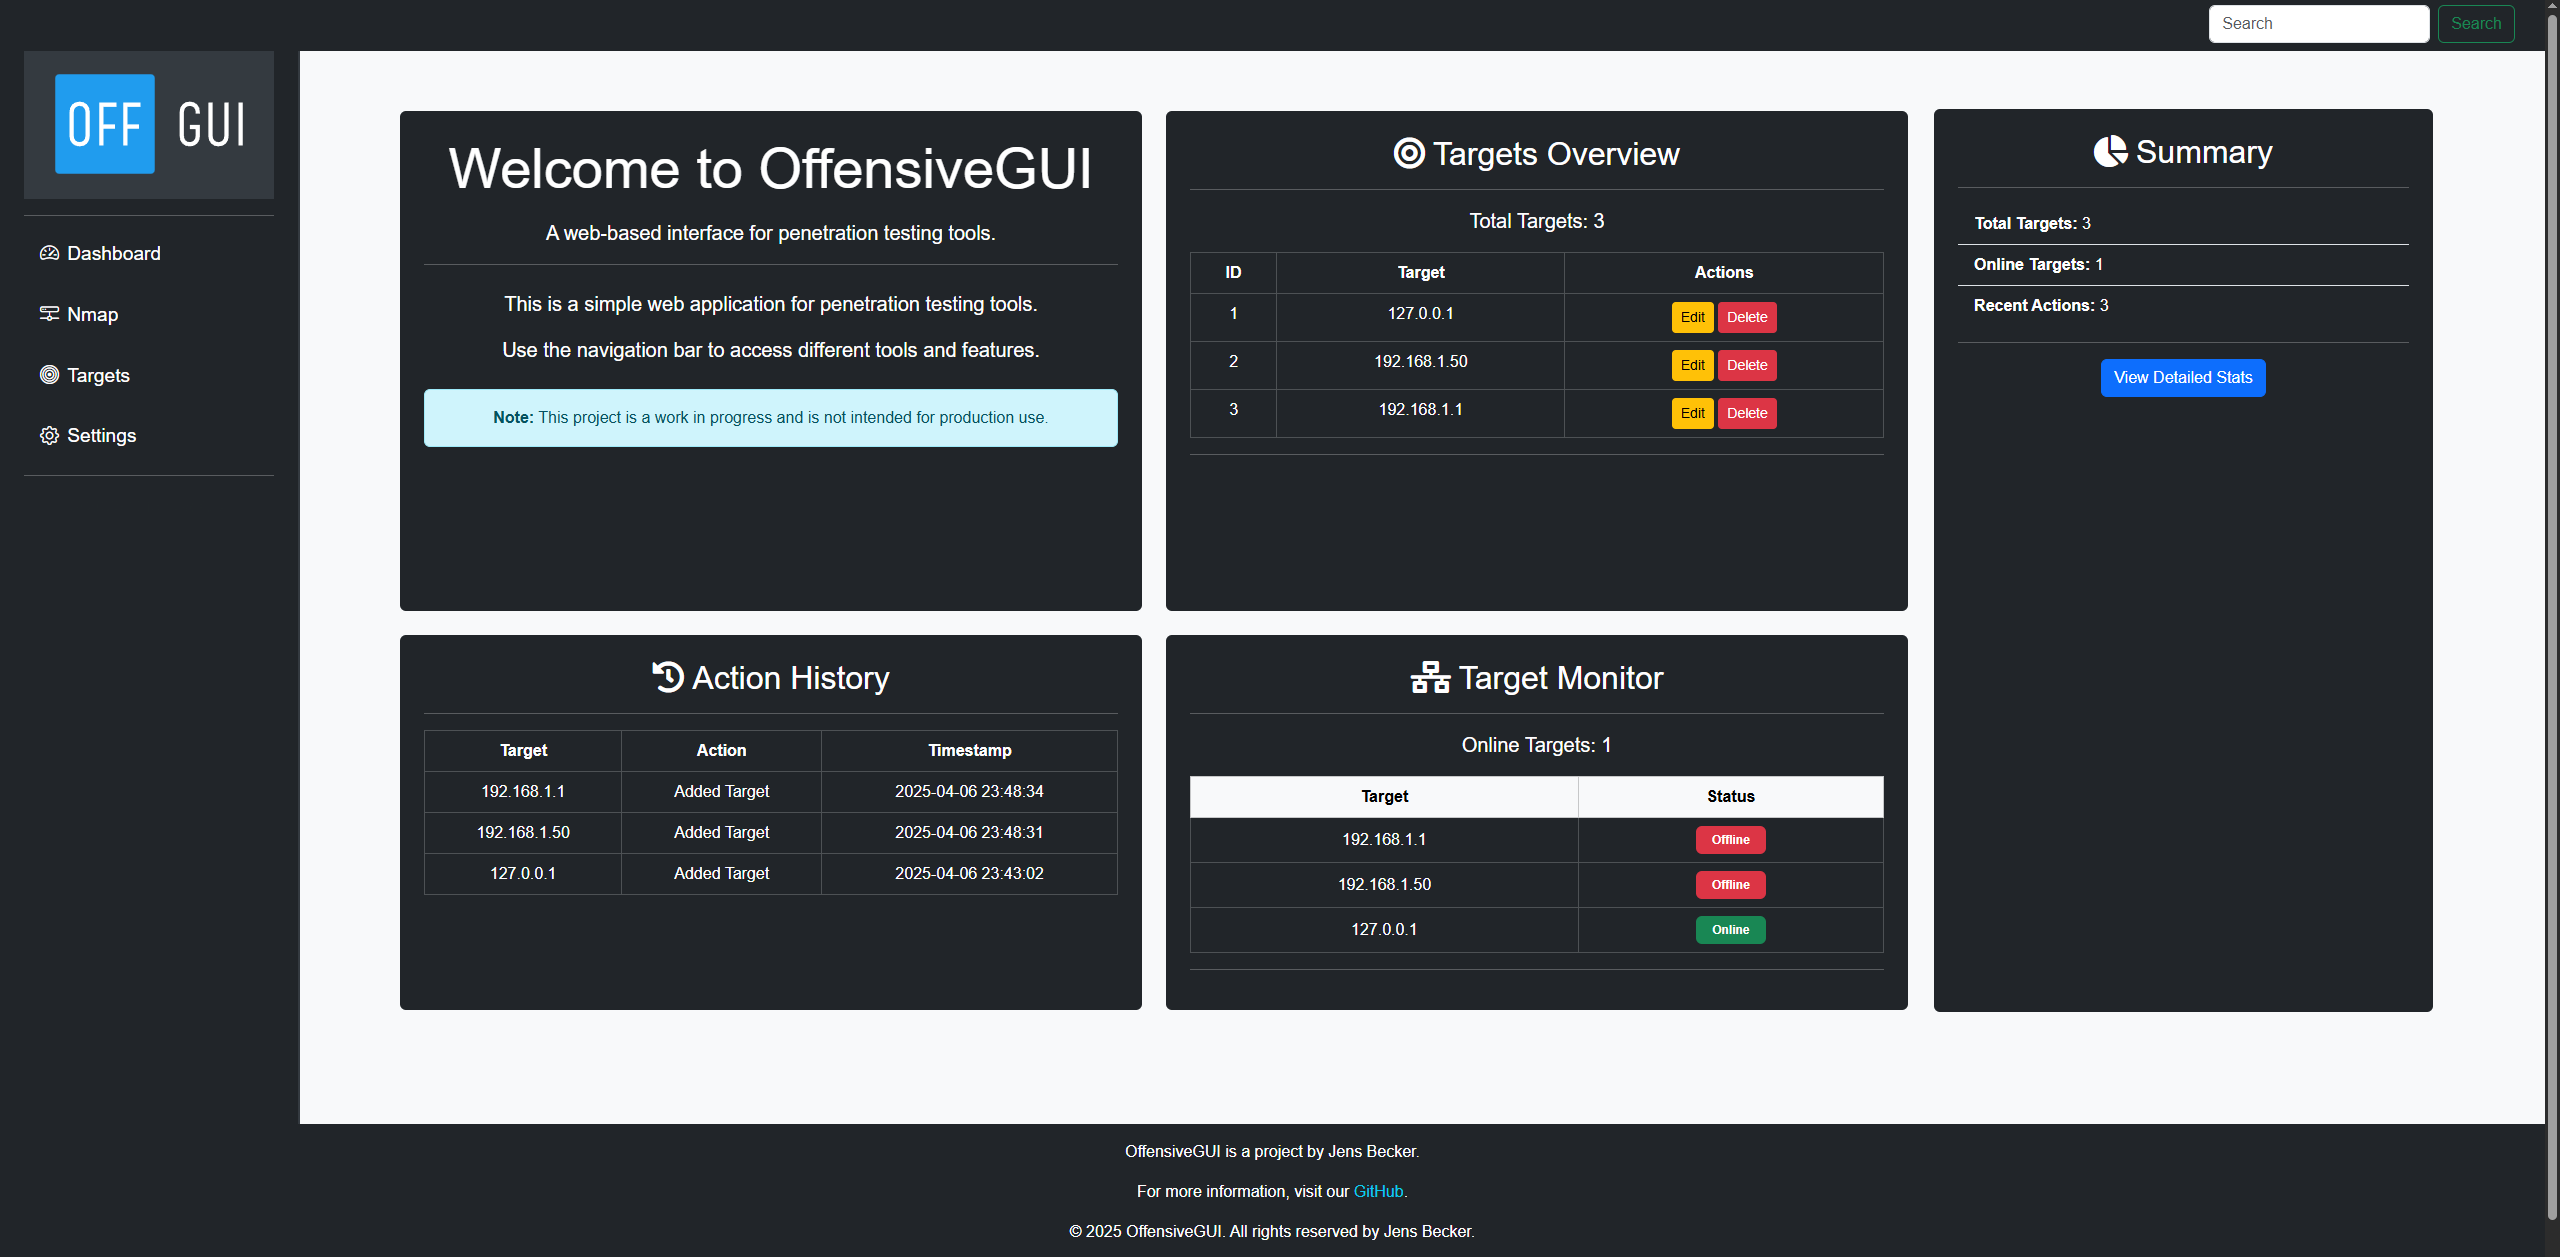
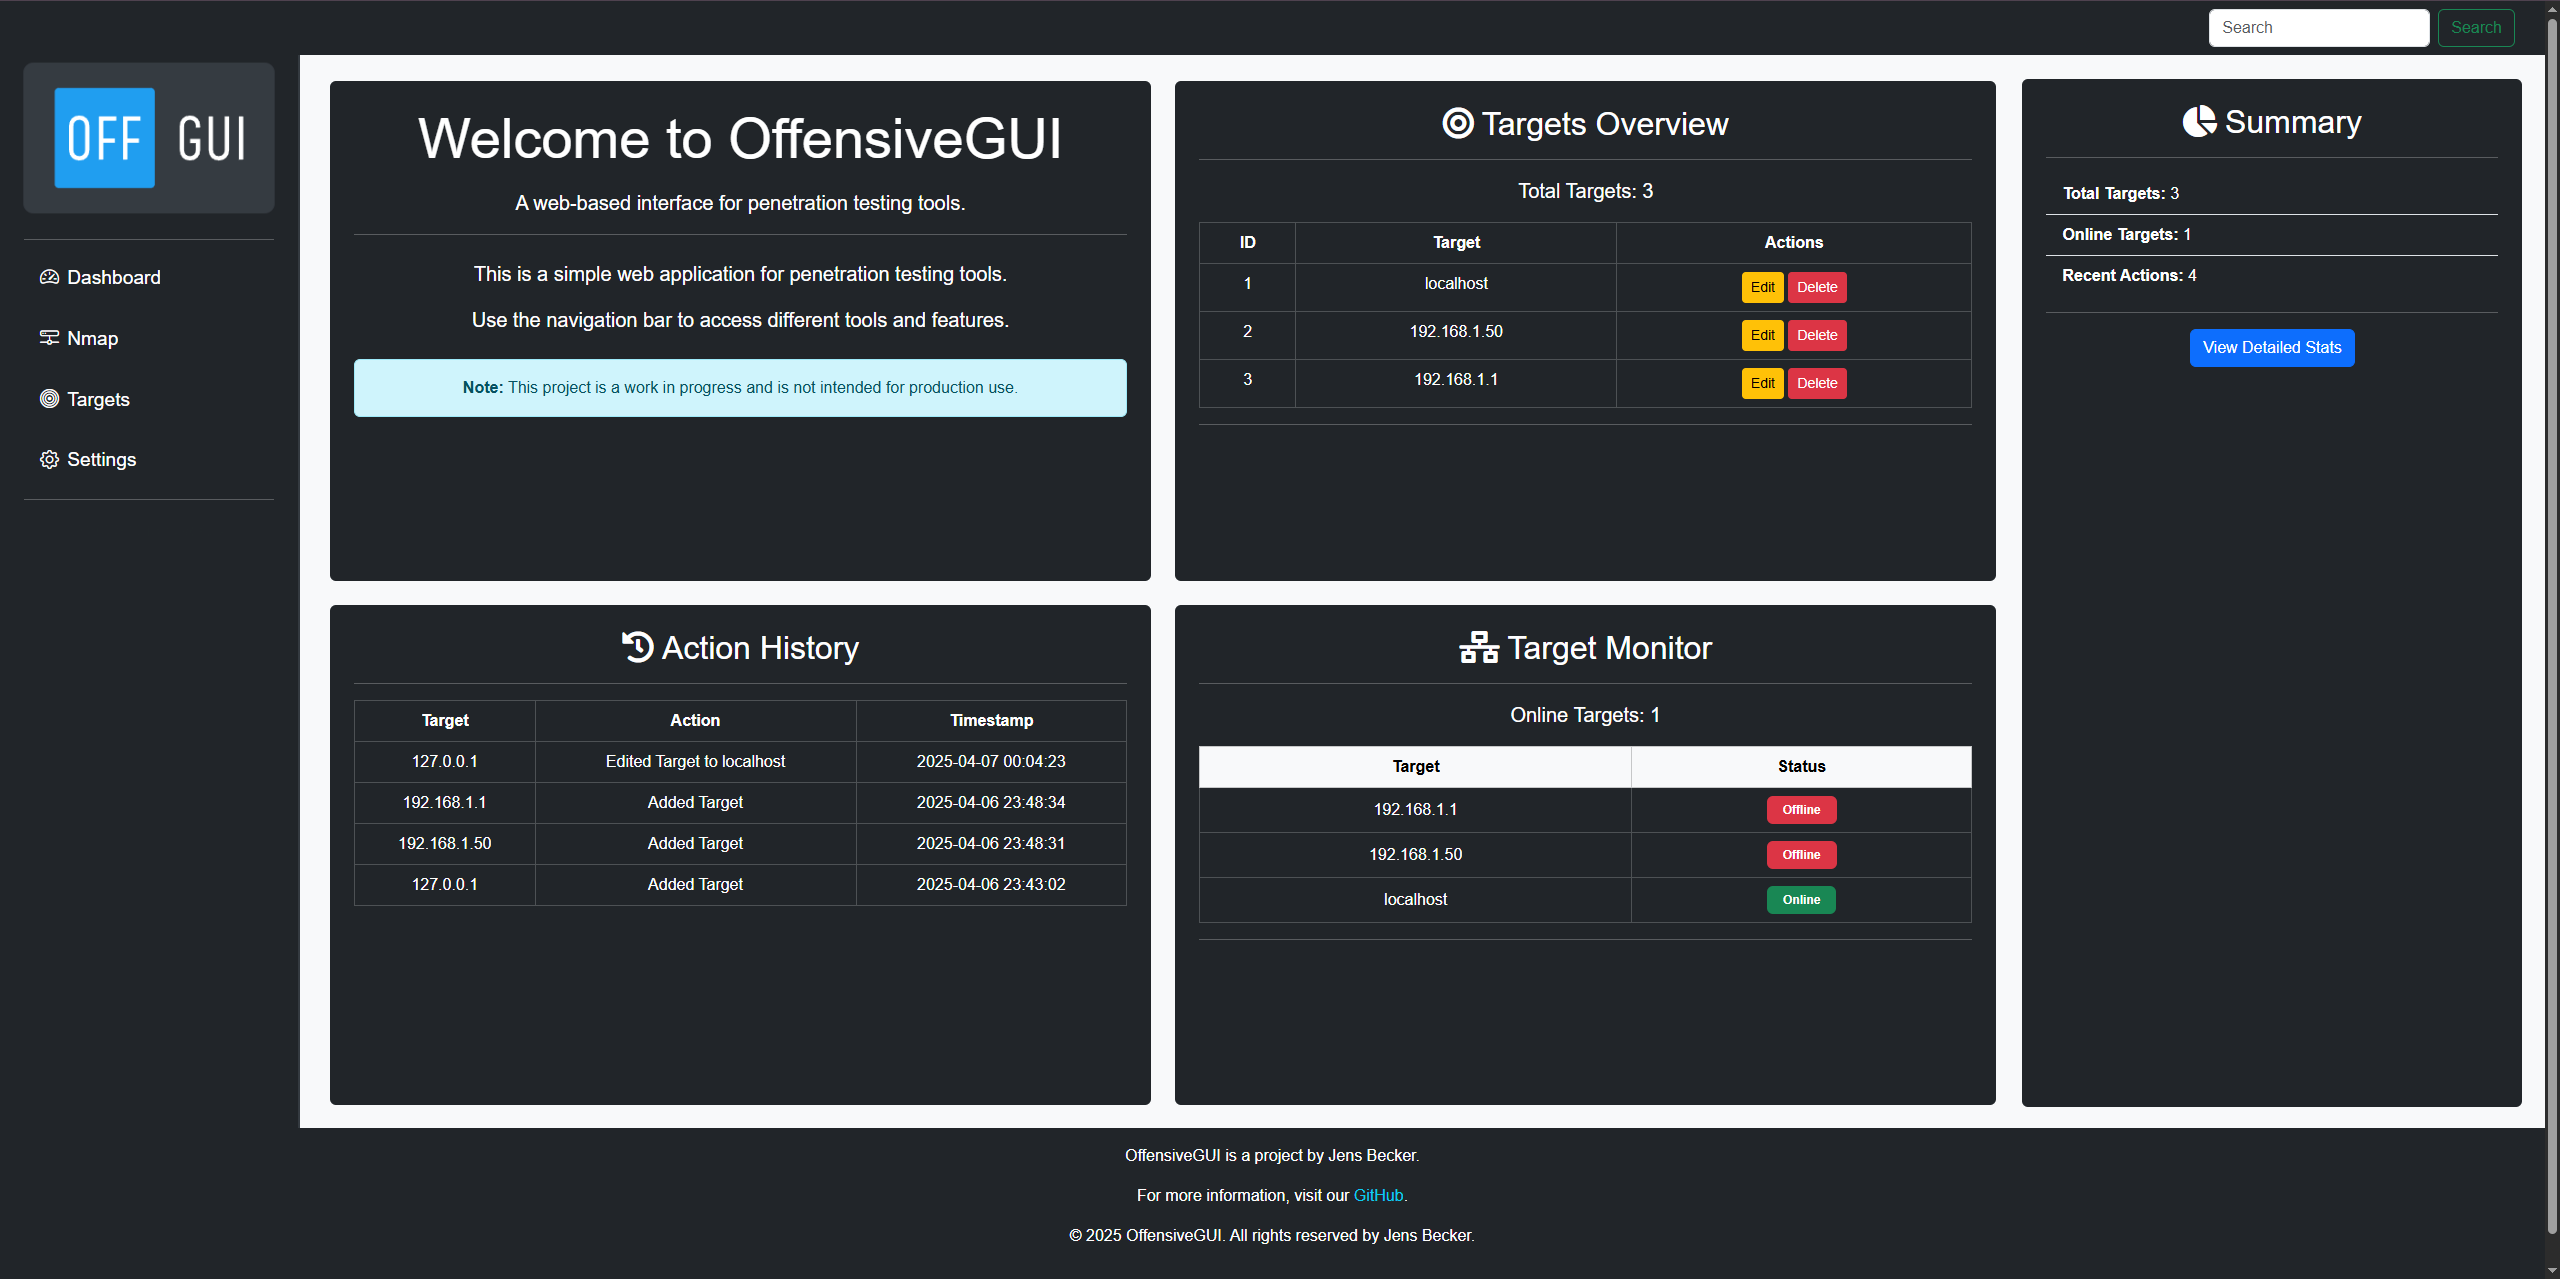
Update binary files for database and dashboard screenshot; enhance layout styles for improved responsiveness and readability

Changed region(s): [[0.0938, 0.0, 1.0, 0.9928], [0.0, 0.1862, 0.0625, 0.3723], [0.0, 0.0621, 0.0938, 0.1551]]

diff --git a/templates/index.html b/templates/index.html
@@ -10,10 +10,10 @@ Home - OffensiveGUI
     <div class="row g-3" style="overflow: hidden;">
         <!-- Hauptinhalt -->
         <div class="col-lg-9 order-2 order-lg-1" style="overflow: hidden;">
-            <div class="row g-4" style="overflow: hidden;">
+            <div class="row g-4 justify-content-center" style="overflow: hidden;">
                 <!-- Section 1: Welcome Container -->
                 <div class="col-lg-6">
-                    <div class="bg-dark text-white rounded p-4 h-100 w-100" style="overflow-y: auto; min-height: 500px; max-height: 600px;">
+                    <div class="bg-dark text-white rounded p-4 h-100 w-100" style="overflow-y: auto; min-height: 500px; max-height: 600px; max-width=auto min-width=auto;">
                         <h1 class="display-4 text-center">Welcome to OffensiveGUI</h1>
                         <p class="lead text-center mt-3">A web-based interface for penetration testing tools.</p>
                         <hr class="bg-light">
@@ -29,7 +29,7 @@ Home - OffensiveGUI
 
                 <!-- Section 2: Targets Overview -->
                 <div class="col-lg-6">
-                    <div class="bg-dark text-white rounded p-4 h-100 w-100" style="overflow-y: auto; min-height: 500px; max-height: 600px;">
+                    <div class="bg-dark text-white rounded p-4 h-100 w-100" style="overflow-y: auto; min-height: 500px; max-height: 600px; min-width: 600px;">
                         <h2 class="text-center">
                             <i class="fas fa-bullseye me-2"></i>Targets Overview
                         </h2>
@@ -67,7 +67,7 @@ Home - OffensiveGUI
 
                 <!-- Section 3: Logging Monitor -->
                 <div class="col-lg-6">
-                    <div class="bg-dark text-white rounded p-4 h-100 w-100" style="overflow-y: auto; max-height: 500px;">
+                    <div class="bg-dark text-white rounded p-4 h-100 w-100" style="overflow-y: auto; min-height: 500px; max-height: 550; max-width: auto; min-width: auto;">
                         <h2 class="text-center">
                             <i class="fas fa-history me-2"></i>Action History
                         </h2>
@@ -99,7 +99,7 @@ Home - OffensiveGUI
 
                 <!-- Section 4: Target Monitor -->
                 <div class="col-lg-6">
-                    <div class="bg-dark text-white rounded p-4 h-100 w-100", style="overflow-y: auto; max-height: 500px;">
+                    <div class="bg-dark text-white rounded p-4 h-100 w-100", style="overflow-y: auto; min-height: 500px; max-height: 550px; min-width: 600px;">
                         <h2 class="text-center">
                             <i class="fas fa-network-wired me-2"></i>Target Monitor
                         </h2>
@@ -144,8 +144,8 @@ Home - OffensiveGUI
             </div>
         </div>
         <!-- Section 5: Summary Card -->
-        <div class="col-lg-3 order-1 order-lg-2 p-2" style="overflow: hidden;">
-            <div class="bg-dark text-white rounded h-100 p-4 w-auto" style="overflow-y: auto; max-height: 1100px;">
+        <div class="col-lg-3 order-1 order-lg-2 p-2" style="overflow: auto; margin-right: 0;">
+            <div class="bg-dark text-white rounded h-100 p-4" style="overflow: auto; max-height: 1100px; max-width: auto; max-width: 500px; min-width: auto">
                 <h2 class="text-center">
                     <i class="fas fa-chart-pie me-2"></i>Summary
                 </h2>

diff --git a/templates/base.html b/templates/base.html
@@ -58,16 +58,16 @@
             </div>
         </nav>
         <!-- Main Layout -->
-        <div class="container-fade" style="margin-top: 40px; min-height: 100vh; overflow-y: hidden">
-            <div class="row g-2 justify-content-beteween" style="overflow: hidden;">
+        <div class="container-fade" style="margin-top: 30px; min-height: 100vh; overflow: auto">
+            <div class="row g-2 justify-content-center:" style="overflow: auto;">
             <!-- Sidebar -->
-            <nav class="bg-dark text-white sidebar p-4 col-lg-3" style="border-right: 2px solid #343a40; height: 100vh; position: fixed; top: 20px; left: 0;"> <!-- Adjusted position -->
+            <nav class="bg-dark text-white sidebar p-4 col-lg-3 w-auto" style="border-right: 2px solid #343a40; height: 100vh; position: fixed; top: 20px; left: 0; overflow: auto;"> <!-- Adjusted position -->
                 <div class="position-sticky">
                 <a class="navbar-brand" href="/">
                     <img src="{{ url_for('static', filename='images/logo.svg') }}"
                         alt="Logo" 
                         class="img-fluid"
-                        style="max-height: 150px; width: 200%; object-fit: contain;">
+                        style="max-height: 150px; width: 200%; object-fit: contain; border-radius: 10px; margin-top: 10px; margin-bottom: 10px;">
                 </a>
                 <hr class="bg-light">
 
@@ -104,8 +104,8 @@
                 </div>
             </nav>
             <!-- Main Content Area -->
-            <main class="col-lg-10" style="margin-left: 350px; margin-right: 100px; padding: 20px 0;"> <!-- Adjusted margin -->
-            <div class="container-fluid mt-4" style="overflow: hidden;">
+            <main class="col-lg-11" style="margin-left: 280px; padding: 20px 0;"> <!-- Adjusted margin -->
+            <div class="container-fluid mb-2" style="overflow: hidden;">
                 {% block content %}
                 <!-- Content will be injected here from child templates -->
                 {% endblock %}
